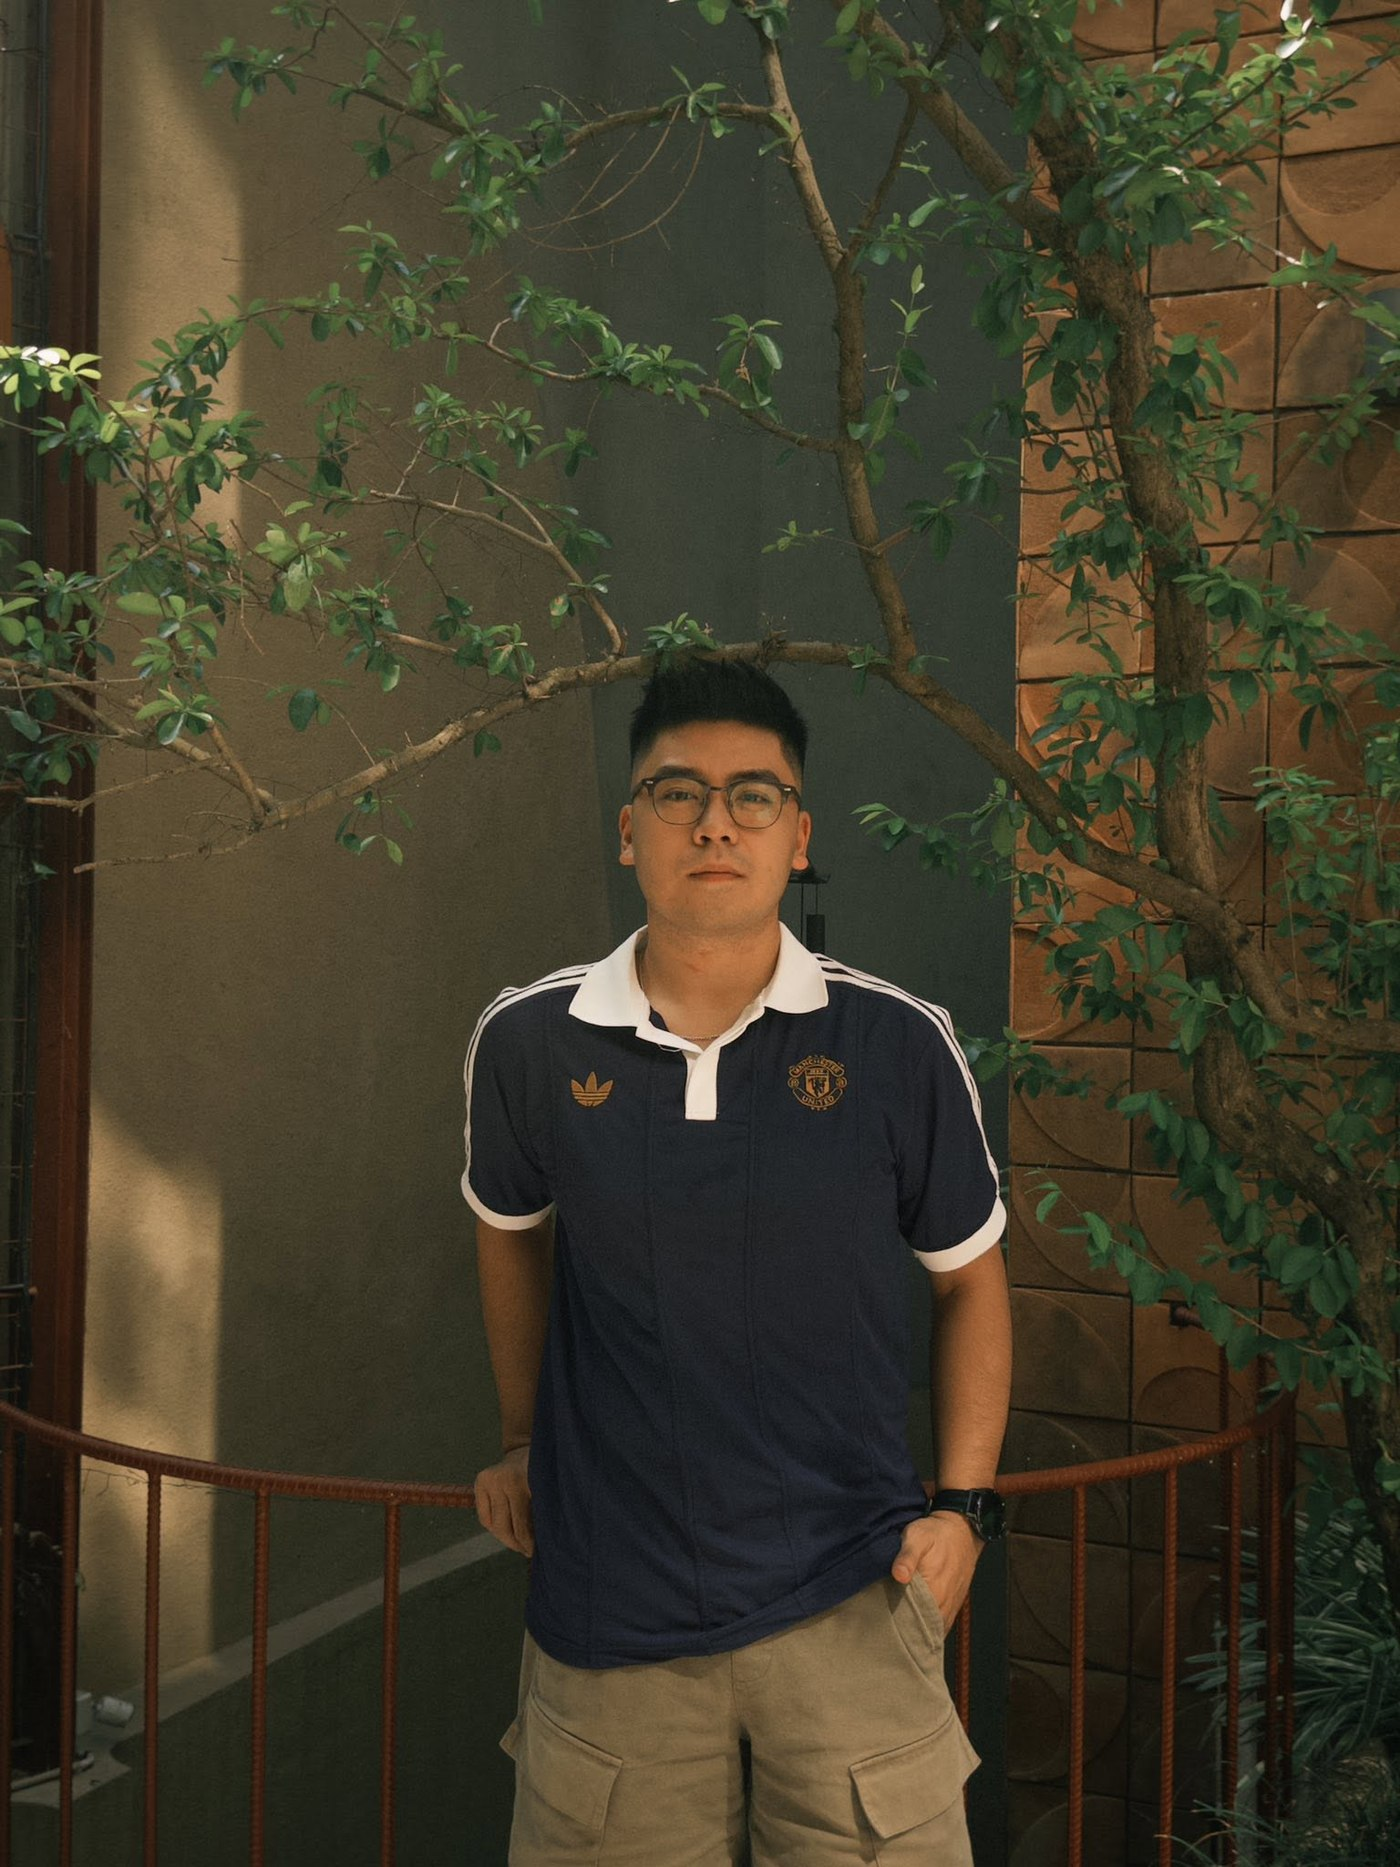
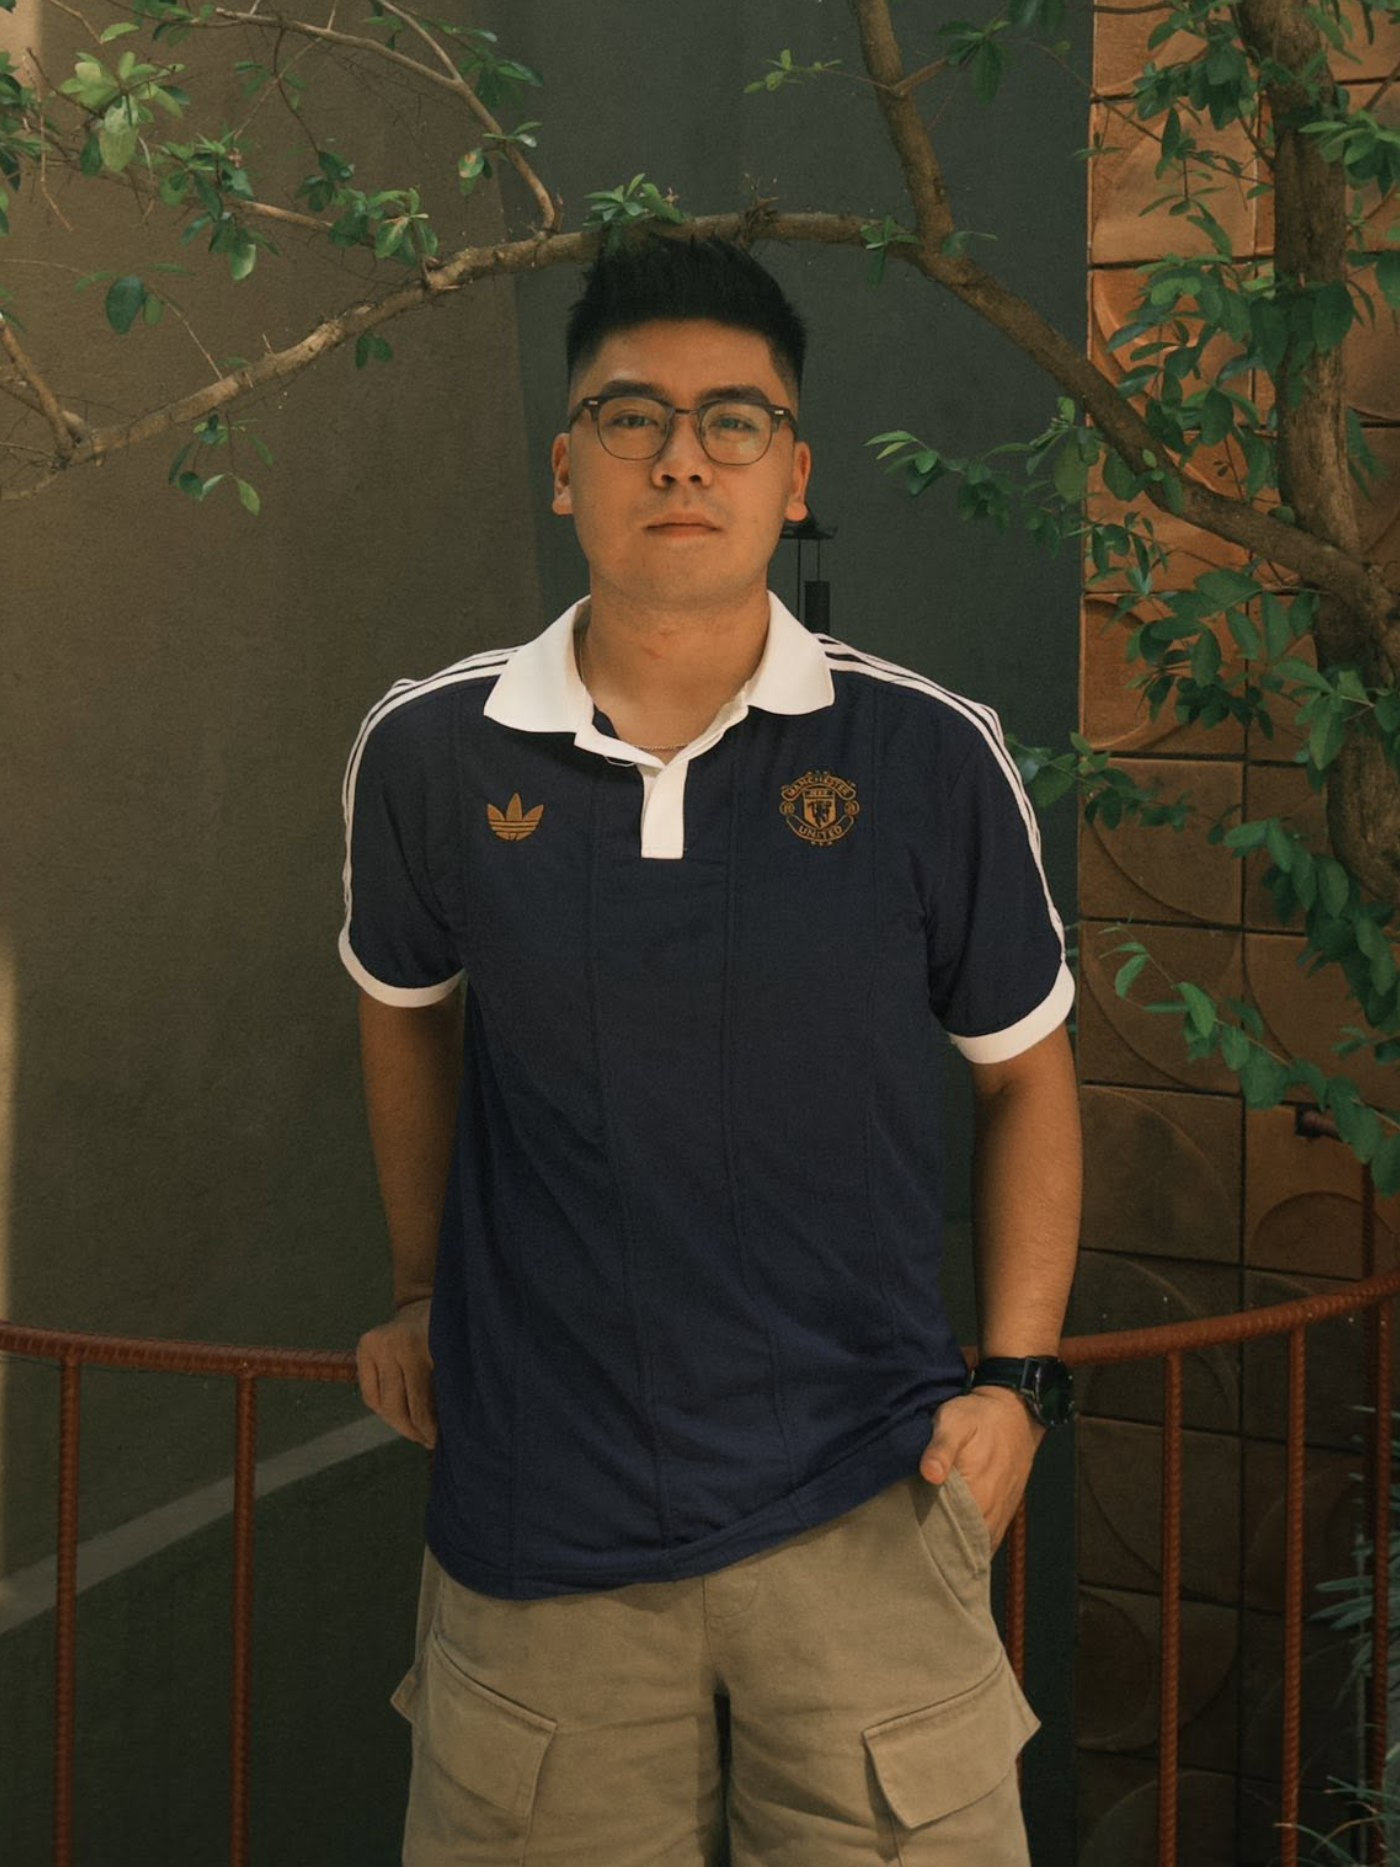
Update hero photo; make admin conflict handling self-heal instead of dead-ending
- New hero portrait uploaded via the admin panel
- Restored Vietnam Airlines highlight tiles again (dropped by the same long-lived stale session)
- admin.js: on a save conflict, adopt the newer disk content and re-render automatically instead of just alerting and blocking — the session heals itself on the very next action instead of staying stuck until a manual reload
- Removed the empty VPBank SME proposal PDF placeholder (a8), a deliberate cleanup via the admin panel
- Bump cache versions

diff --git a/bold/js/admin.js b/bold/js/admin.js
@@ -174,8 +174,14 @@
       var currentFile = await currentHandle.getFile();
       var currentText = await currentFile.text();
       if (lastKnownDiskText !== null && currentText !== lastKnownDiskText) {
-        setStatus("Xung đột: nội dung trên máy đã bị phiên khác thay đổi — tải lại trang rồi thử lại.", "error");
-        alert("content.json trên máy vừa bị một phiên khác (một tab admin khác, hoặc Claude) ghi đè kể từ lúc bạn kết nối.\n\nĐể tránh mất dữ liệu, thao tác lưu vừa rồi đã bị huỷ. Hãy tải lại trang (F5) để lấy bản mới nhất rồi thực hiện lại thay đổi của bạn.");
+        // Self-heal instead of dead-ending: adopt the newer disk content (e.g. edits Claude
+        // just pushed) and re-render, rather than silently overwriting it. The change the user
+        // just made is lost (its image file, if any, stays on disk unreferenced — harmless) and
+        // must be redone once — but the session is fresh again for every action after this.
+        DATA = JSON.parse(currentText);
+        lastKnownDiskText = currentText;
+        renderAll();
+        setStatus("Đã có thay đổi mới từ phiên khác — đã tự đồng bộ lại. Vui lòng thực hiện lại thao tác vừa rồi.", "error");
         return false;
       }
       var newJsonText = JSON.stringify(DATA, null, 2);

diff --git a/bold/index.html b/bold/index.html
@@ -18,7 +18,7 @@
 <link rel="preconnect" href="https://fonts.gstatic.com" crossorigin>
 <link href="https://fonts.googleapis.com/css2?family=Archivo:wght@700;800;900&family=Inter:wght@400;500;600;700&family=Caveat:wght@600;700&display=swap" rel="stylesheet">
 
-<link rel="stylesheet" href="css/style.css?v=75">
+<link rel="stylesheet" href="css/style.css?v=82">
 </head>
 <body>
 <a class="skip-link" href="#main">Bỏ qua tới nội dung chính / Skip to content</a>
@@ -198,10 +198,10 @@
   </div>
 </footer>
 
-<script src="../data/content.js?v=75"></script>
+<script src="../data/content.js?v=82"></script>
 <script src="https://cdnjs.cloudflare.com/ajax/libs/gsap/3.12.5/gsap.min.js"></script>
 <script src="https://cdnjs.cloudflare.com/ajax/libs/gsap/3.12.5/ScrollTrigger.min.js"></script>
 <script src="https://unpkg.com/lenis@1.1.18/dist/lenis.min.js"></script>
-<script src="js/main.js?v=75"></script>
+<script src="js/main.js?v=82"></script>
 </body>
 </html>

diff --git a/bold/admin.html b/bold/admin.html
@@ -9,8 +9,8 @@
 <link rel="preconnect" href="https://fonts.googleapis.com">
 <link rel="preconnect" href="https://fonts.gstatic.com" crossorigin>
 <link href="https://fonts.googleapis.com/css2?family=Archivo:wght@700;800;900&family=Inter:wght@400;500;600;700&display=swap" rel="stylesheet">
-<link rel="stylesheet" href="css/style.css?v=75">
-<link rel="stylesheet" href="css/admin.css?v=3">
+<link rel="stylesheet" href="css/style.css?v=78">
+<link rel="stylesheet" href="css/admin.css?v=6">
 </head>
 <body class="admin-body">
 
@@ -123,6 +123,6 @@
 
 <input type="file" id="fileInput" accept="image/*" hidden>
 
-<script src="js/admin.js?v=3"></script>
+<script src="js/admin.js?v=6"></script>
 </body>
 </html>

diff --git a/data/content.js b/data/content.js
@@ -921,17 +921,6 @@ window.SITE_CONTENT = {
         }
       },
       {
-        "id": "a8",
-        "type": "pdf",
-        "category": "proposal",
-        "projectId": "vpbank-sme",
-        "url": "",
-        "description": {
-          "vi": "Kịch bản Brief & Proposal Talkshow ra mắt Tap2Phone, QR Payment",
-          "en": "Brief & Proposal for the Tap2Phone / QR Payment launch talkshow"
-        }
-      },
-      {
         "id": "d-vna-1",
         "type": "image",
         "category": "design",
